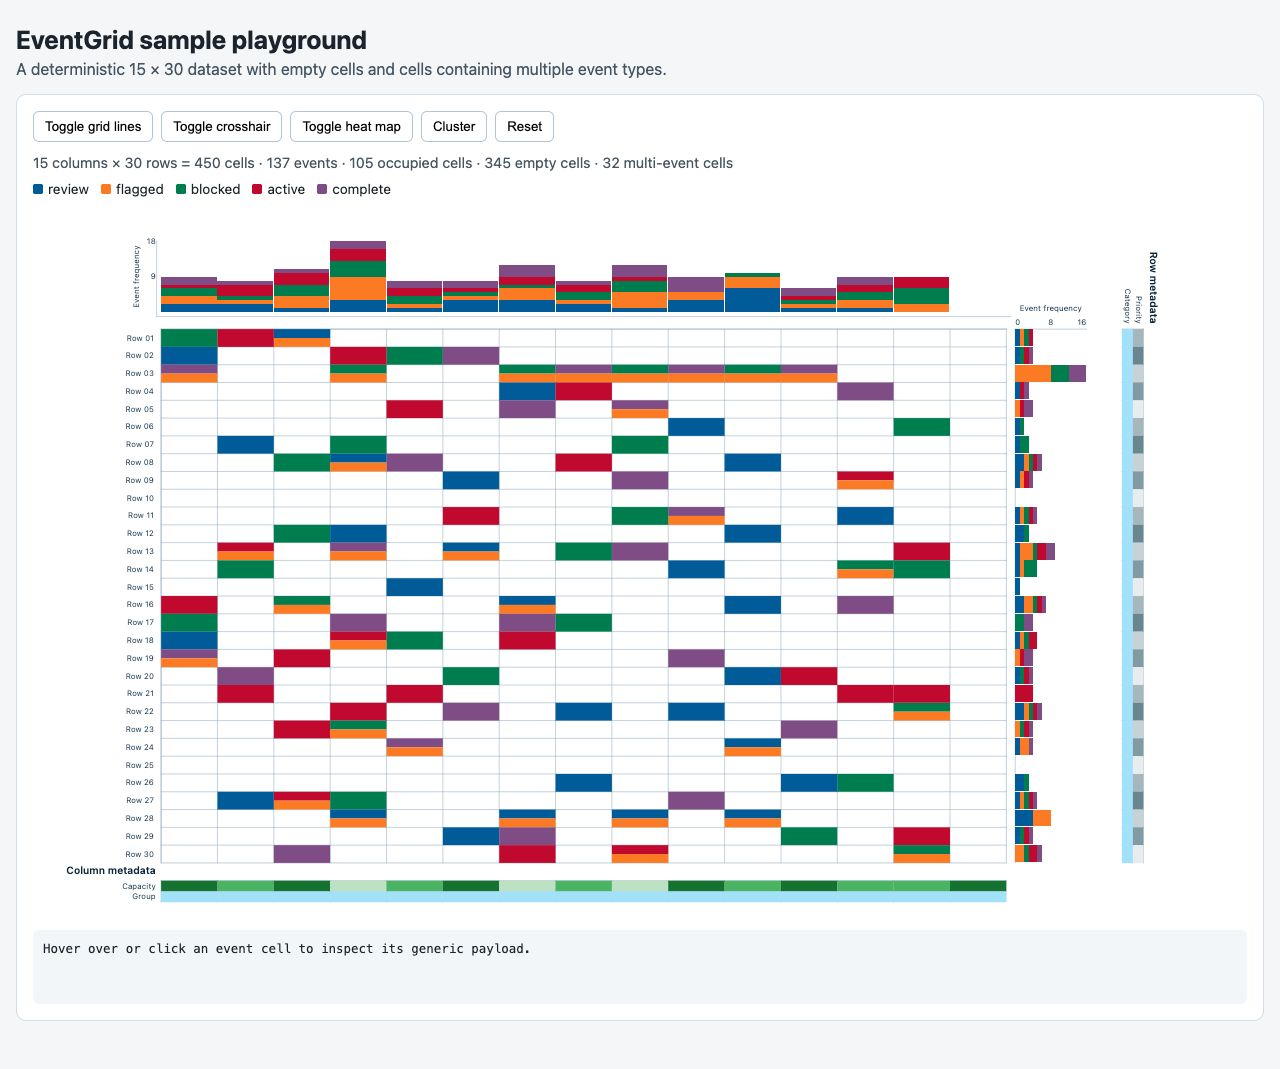
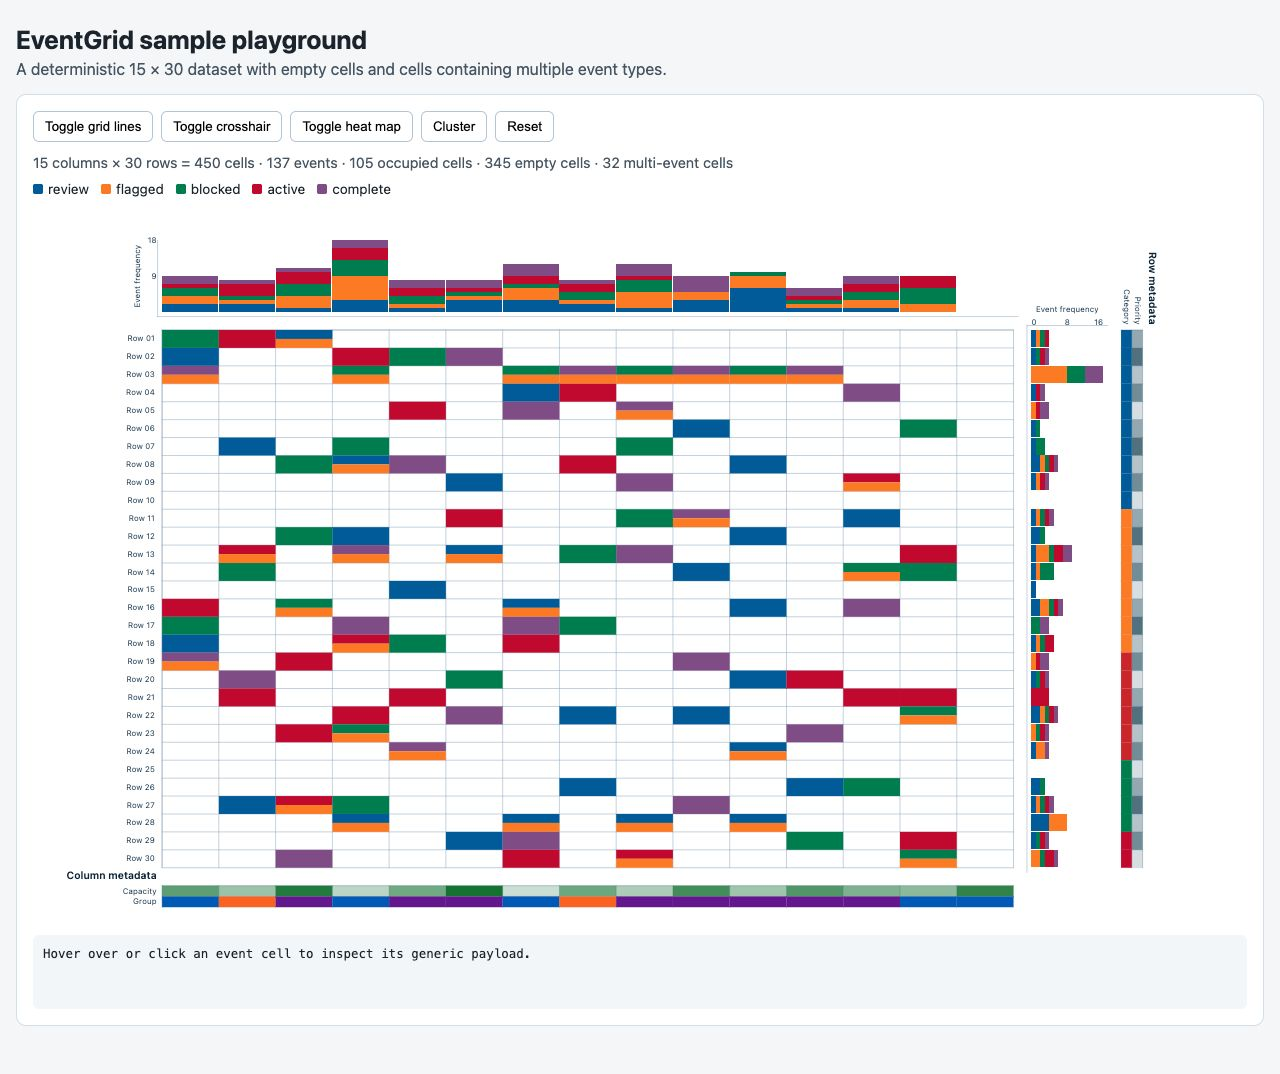
Visual fixes.

diff --git a/src/row-histogram.ts b/src/row-histogram.ts
@@ -42,6 +42,7 @@ class RowHistogram {
   readonly summaryEventTypes: string[];
   readonly colorMap: Record<string, string>;
   readonly lineWidthOffset: number;
+  readonly lineHeightOffset: number;
   readonly histogramWidth: number;
   readonly totalWidth: number;
 
@@ -74,13 +75,15 @@ class RowHistogram {
     this.svg = svgElement;
     this.domain = params.rows || [];
     this.colorMap = params.colorMap || {};
-    this.lineWidthOffset = (params.histogramBorderPadding || {}).left || 10;
+    const borderPadding = params.histogramBorderPadding || {};
+    this.lineWidthOffset = borderPadding.left ?? 20;
+    this.lineHeightOffset = borderPadding.bottom ?? 5;
     const width = params.width || 500;
     this.height = params.height || 500;
     this.offset = typeof offset === 'number' ? offset : width;
     this.histogramWidth = params.rowHistogramWidth || 80;
     this.barHeight = this.domain.length ? this.height / this.domain.length : 0;
-    this.totalWidth = this.histogramWidth + this.lineWidthOffset + 20;
+    this.totalWidth = this.histogramWidth + this.lineWidthOffset;
   }
 
   render(): void {
@@ -176,8 +179,16 @@ class RowHistogram {
 
   private updateAxis(): void {
     if (!this.leftAxis) return;
-    this.leftAxis.attr('x1', 0).attr('x2', 0).attr('y1', 0).attr('y2', this.height);
-    this.topAxis.attr('x1', 0).attr('x2', this.histogramWidth).attr('y1', 0).attr('y2', 0);
+    this.leftAxis
+      .attr('x1', -this.lineHeightOffset)
+      .attr('x2', -this.lineHeightOffset)
+      .attr('y1', -this.lineHeightOffset)
+      .attr('y2', this.height + this.lineHeightOffset);
+    this.topAxis
+      .attr('x1', -this.lineHeightOffset)
+      .attr('x2', this.histogramWidth + this.lineHeightOffset)
+      .attr('y1', -this.lineHeightOffset)
+      .attr('y2', -this.lineHeightOffset);
     this.zeroText.attr('x', 0).attr('y', -8).text(0);
     this.topText.attr('x', this.histogramWidth).attr('y', -8).attr('text-anchor', 'end').text(this.topCount);
     const half = Math.floor(this.topCount / 2);

diff --git a/src/column-histogram.ts b/src/column-histogram.ts
@@ -48,7 +48,6 @@ class ColumnHistogram {
   readonly histogramHeight = 80;
   readonly padding = 20;
   readonly centerText = -6;
-  readonly lineWidthOffset: number;
   readonly lineHeightOffset: number;
   readonly totalHeight: number;
 
@@ -69,8 +68,7 @@ class ColumnHistogram {
 
   constructor(params: InternalOptions, svg: D3Selection) {
     const borderPadding = params.histogramBorderPadding || {};
-    this.lineWidthOffset = borderPadding.left || 10;
-    this.lineHeightOffset = borderPadding.bottom || 5;
+    this.lineHeightOffset = borderPadding.bottom ?? 5;
     this.prefix = params.prefix || 'eg-';
     this.emit = params.emit;
     this.svg = svg;
@@ -88,7 +86,7 @@ class ColumnHistogram {
     this.container = this.svg.append('g')
       .attr('class', `${this.prefix}histogram ${this.prefix}column-histogram`);
     this.histogram = this.container.append('g')
-      .attr('transform', `translate(0,-${this.totalHeight + this.centerText})`);
+      .attr('transform', `translate(0,-${this.histogramHeight + this.padding})`);
     this.renderAxis();
     this.renderBars();
     this.bindInteractions();
@@ -166,7 +164,7 @@ class ColumnHistogram {
     this.histogramWidth = width;
     this.barWidth = this.items.length ? this.histogramWidth / this.items.length : 0;
     if (!this.container) return;
-    this.histogram.attr('transform', `translate(0,-${this.totalHeight + this.centerText})`);
+    this.histogram.attr('transform', `translate(0,-${this.histogramHeight + this.padding})`);
     this.updateAxis();
     this.renderBars();
   }
@@ -200,7 +198,7 @@ class ColumnHistogram {
     this.bottomAxis
       .attr('y1', this.histogramHeight + this.lineHeightOffset)
       .attr('y2', this.histogramHeight + this.lineHeightOffset)
-      .attr('x2', this.histogramWidth + this.lineWidthOffset)
+      .attr('x2', this.histogramWidth + (this.lineHeightOffset * 2))
       .attr('transform', `translate(-${this.lineHeightOffset},0)`);
     this.leftAxis
       .attr('y1', 0)

diff --git a/test/mocha/track.test.js b/test/mocha/track.test.js
@@ -158,6 +158,33 @@ describe('Tracks', function () {
     grid.destroy();
   });
 
+  it('uses the configured track padding between the row histogram and row tracks', function () {
+    var grid = new EventGrid({
+      element: '#test6',
+      columns: [{ id: 'c1' }],
+      rows: [{ id: 'r1', priority: 2 }],
+      events: [{ id: 'e1', columnId: 'c1', rowId: 'r1', type: 'active' }],
+      scaleToFit: false,
+      rowHistogramWidth: 80,
+      histogramBorderPadding: { left: 10, bottom: 5 },
+      trackHeight: 12,
+      trackPadding: 20,
+      rowTracks: [{ id: 'priority', label: 'Priority', field: 'priority' }]
+    });
+    grid.render();
+
+    expect(grid.mainGrid.rowHistogram.totalWidth).to.equal(90);
+
+    var histogramBar = document.querySelector('#test6 .eg-row-histogram .eg-summary-bar');
+    var trackCell = document.querySelector('#test6 .eg-track-data');
+    if (histogramBar) {
+      var histogramBounds = histogramBar.getBoundingClientRect();
+      var trackBounds = trackCell.getBoundingClientRect();
+      expect(trackBounds.left - histogramBounds.right).to.be.closeTo(20, 0.01);
+    }
+    grid.destroy();
+  });
+
   it('sorts an axis through a track-label listener', function () {
     var grid = new EventGrid({
       element: '#test6',

diff --git a/test/mocha/histogram.test.js b/test/mocha/histogram.test.js
@@ -36,8 +36,16 @@ describe('Histograms', function () {
     expect(columnBars[1].getAttribute('y')).to.equal('0');
     expect(rowBars[0].getAttribute('fill')).to.equal('#00aa00');
     expect(rowBars[1].getAttribute('fill')).to.equal('#aa0000');
-    expect(rowAxis[1].getAttribute('y1')).to.equal('0');
-    expect(rowAxis[1].getAttribute('y2')).to.equal('0');
+    expect(document.querySelector('#test5 .eg-column-histogram > g').getAttribute('transform'))
+      .to.equal('translate(0,-100)');
+    expect(document.querySelector('#test5 .eg-row-histogram > g').getAttribute('transform'))
+      .to.equal('translate(520,0)');
+    expect(rowAxis[0].getAttribute('x1')).to.equal('-5');
+    expect(rowAxis[0].getAttribute('x2')).to.equal('-5');
+    expect(rowAxis[1].getAttribute('x1')).to.equal('-5');
+    expect(rowAxis[1].getAttribute('x2')).to.equal('85');
+    expect(rowAxis[1].getAttribute('y1')).to.equal('-5');
+    expect(rowAxis[1].getAttribute('y2')).to.equal('-5');
     expect(document.querySelector('#test5 .eg-row-histogram').textContent).to.contain('Event frequency');
     grid.destroy();
   });

diff --git a/docs/layout.md b/docs/layout.md
@@ -11,8 +11,8 @@ All sizes are pixels. The matrix dimensions exclude labels, histograms, tracks, 
 | `configuration.leftTextWidth` | `number` | `80` | Width reserved for row labels |
 | `configuration.margin` | object | `{ top: 30, right: 100, bottom: 15, left: 80 }` | Outer space around the visualization |
 | `configuration.rowHistogramWidth` | `number` | `80` | Width of the row histogram |
-| `configuration.histogramBorderPadding.left` | `number` | `10` | Horizontal padding beside histogram borders |
-| `configuration.histogramBorderPadding.bottom` | `number` | `5` | Vertical padding below histogram borders |
+| `configuration.histogramBorderPadding.left` | `number` | `20` | Horizontal space between the matrix and row histogram |
+| `configuration.histogramBorderPadding.bottom` | `number` | `5` | Space between histogram bars and their adjacent axis lines |
 | `configuration.trackHeight` | `number` | `10` | Thickness of every metadata track |
 | `configuration.trackPadding` | `number` | `20` | Space allocated around track groups |
 | `configuration.prefix` | `string` | `'eg-'` | Prefix for generated CSS class names |

diff --git a/docs/configuration.md b/docs/configuration.md
@@ -32,7 +32,7 @@ const configuration = {
   leftTextWidth: 80,
   margin: { top: 30, right: 100, bottom: 15, left: 80 },
   rowHistogramWidth: 80,
-  histogramBorderPadding: { left: 10, bottom: 5 },
+  histogramBorderPadding: { left: 20, bottom: 5 },
   trackHeight: 10,
   trackPadding: 20,
   prefix: 'eg-'
